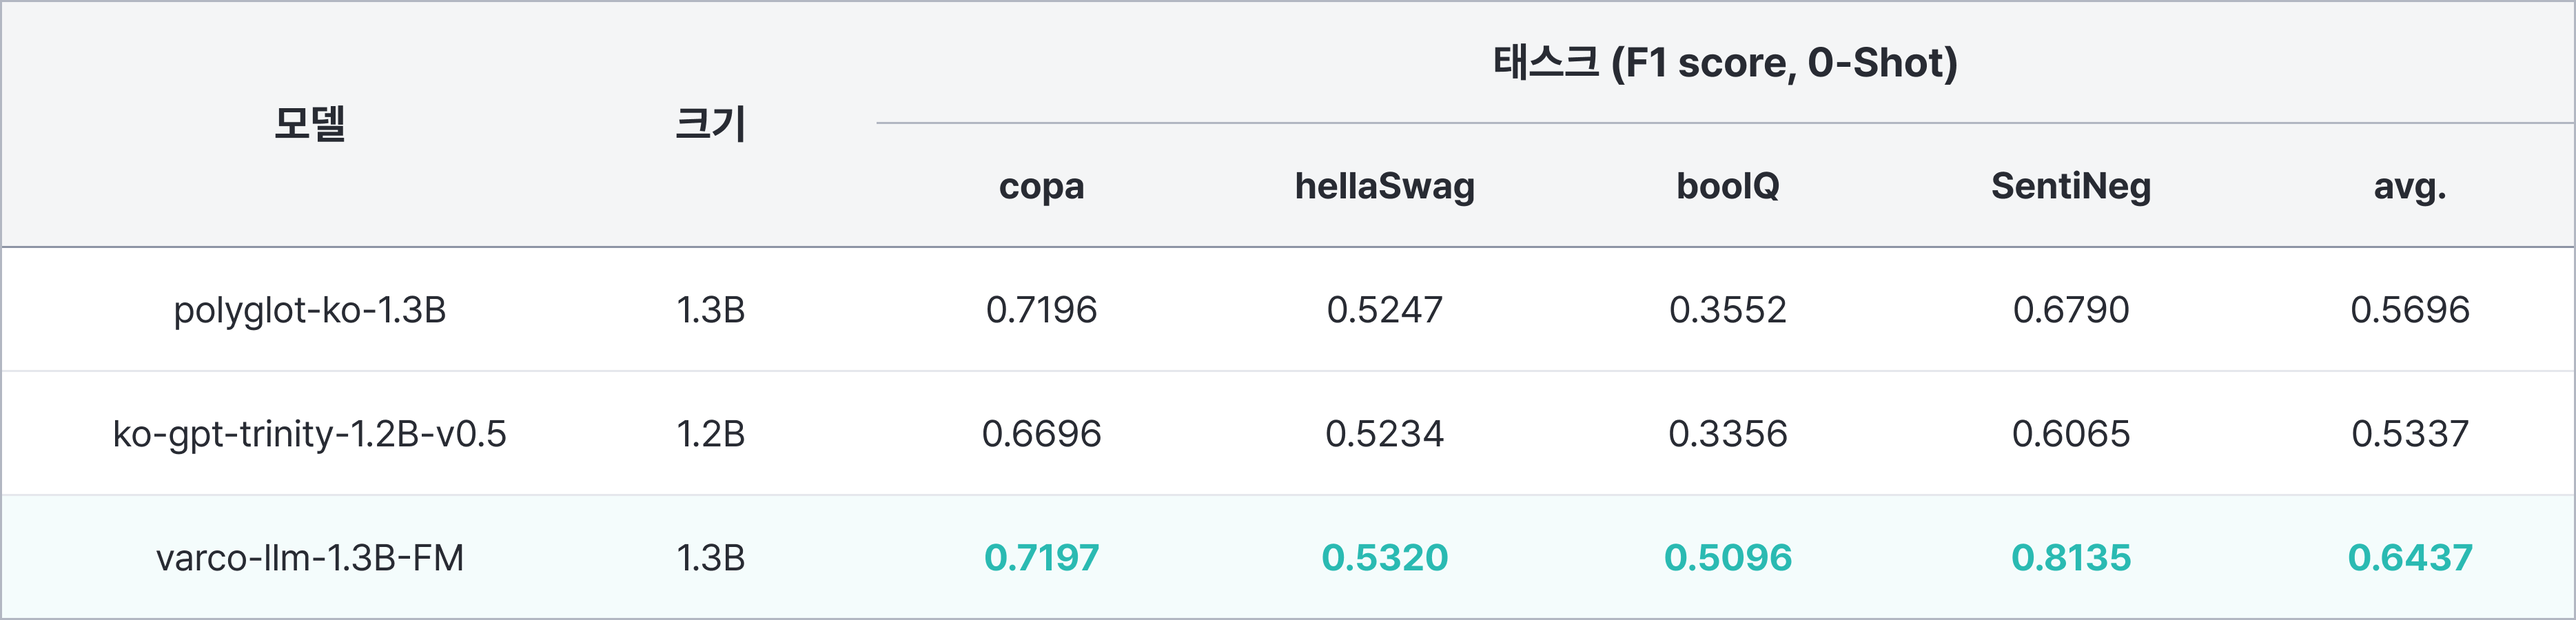
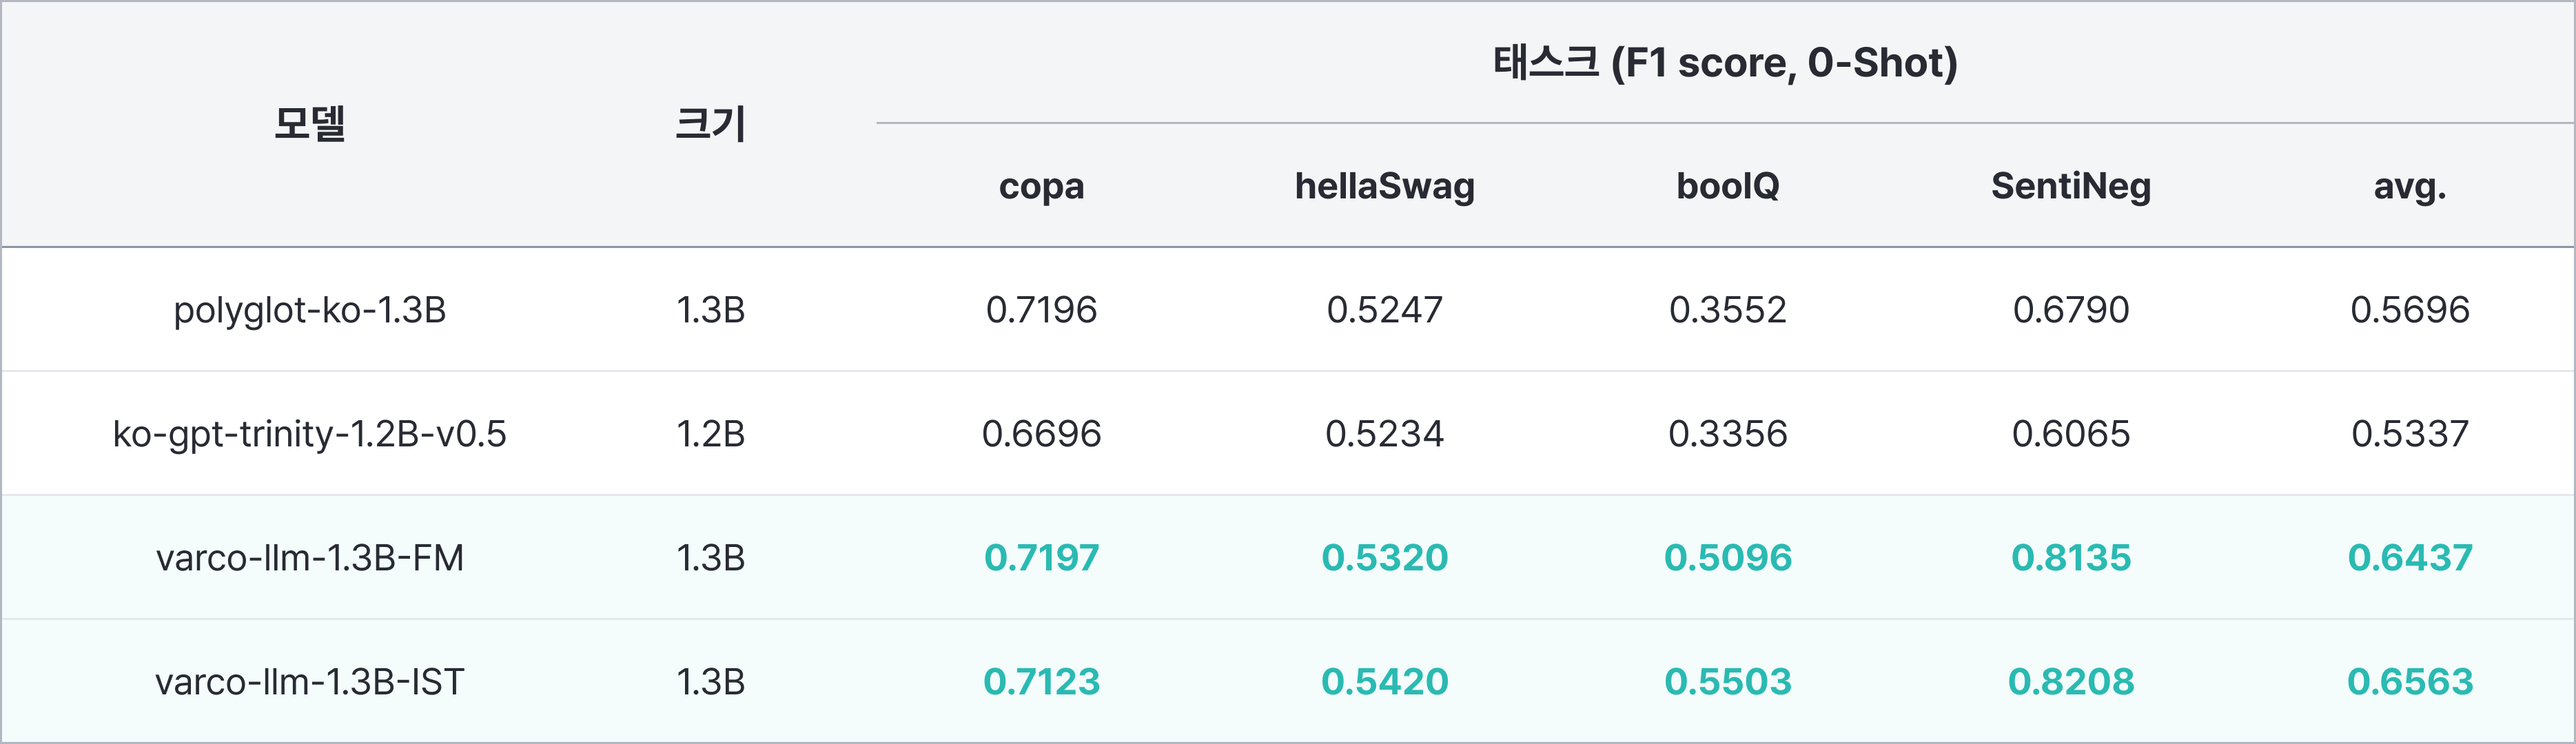
change table

diff --git a/pages/02_varco_llm.md b/pages/02_varco_llm.md
@@ -128,13 +128,13 @@ hide: true
 <h6>모델의 추가적인 성능 개선이나 튜닝, 서비스 적용을 위한 협업 문의는 메일(<a href="mailto:varco_llm@ncsoft.com">varco_llm@ncsoft.com</a>) 로 연락주십시오.</h6>
 
 |공개 일정|모델명|
-|**2023.08.10**|{::nomarkdown}<p><a href="https://ncsoft.github.io/ncresearch/varco-llm-details#varco-llm-ko-13b-fm"><b><u>VARCO LLM KO-1.3B-FM</u></b></a></p><ul><li>VARCO LLM 1.3B 모델은 작지만 7B급 언어모델에 준하는 높은 성능을 보유하고 있는 경제적인 모델입니다.</li><li>특히, 텍스트의 감성/감정 분석이나 문서 분류와 같은 태스크에서 뛰어난 성능을 보이며, 간단한 일상 대화 챗봇 개발에도 활용 가능합니다.</li></ul>{:/}|
-|**2023.08.10**|{::nomarkdown}<p><a href="https://ncsoft.github.io/ncresearch/varco-llm-details#varco-llm-ko-13b-ist"><b><u>VARCO LLM KO-1.3B-IST</u></b></a></p><ul><li>VARCO LLM 1.3B-IST 모델은 1.3B-FM 모델을 NC에서 자체 구축한 Instruction 데이터 셋으로 추가 학습한 모델입니다.</li><li>1.3B-FM 모델의 기본적인 성능에 더하여 사용자가 입력하는 프롬프트를 잘 수행하도록 학습되었기 때문에 보다 유연하게 다양한 태스크에 활용될 수 있습니다.</li><li>기존의 NLP 분석 엔진을 쉽게 대체할 수 있습니다. 빅데이터 분석 엔진 등에서 경제적으로 NLP의 어려운 문제를 해결하세요.</li></ul>{:/}|
-|**2023.08.10**|{::nomarkdown}<p><a href="https://ncsoft.github.io/ncresearch/varco-llm-details#varco-llm-ko-64b-fm"><b><u>VARCO LLM KO-6.4B-FM</u></b></a></p><ul><li>VARCO LLM 6.4B 모델은 대부분의 NLP 태스크에서 뛰어난 성능을 보이는 고성능 언어모델입니다.</li><li>Q&A, 문서 요약, 정보 추출, 챗봇 등 다양한 NLP 태스크에 적용 가능하며, 높은 성능이 요구되는 고품질 AI 서비스 개발에 적합합니다.</li></ul>{:/}|
-|**2023.08.10**|{::nomarkdown}<p><a href="https://ncsoft.github.io/ncresearch/varco-llm-details#varco-llm-ko-64b-ist"><b><u>VARCO LLM KO-6.4B-IST</u></b></a></p><ul><li>VARCO LLM 6.4B-IST 모델은 6.4B-FM 모델을 NC에서 자체 구축한 Instruction 데이터 셋으로 추가 학습한 모델입니다.</li><li>6.4B-FM 모델의 기본적인 성능에 더하여 사용자가 입력하는 프롬프트를 잘 수행하도록 학습되었기 때문에 보다 유연하게 다양한 태스크에 활용될 수 있습니다.</li><li>추론과 생성 능력에 집중하였습니다. 워크플로우의 자동화를 통해 생산성을 향상하고, One-stop 서비스형 챗봇, 개성이 묻어나는 챗봇 등을 제작하여 고객에게 새로운 경험을 제공하세요.</li></ul>{:/}|
-|**2023.08.10**|{::nomarkdown}<p><a href="https://ncsoft.github.io/ncresearch/varco-llm-details#varco-llm-ko-13b-fm-1"><b><u>VARCO LLM KO-13B-FM</u></b></a></p><ul><li>VARCO LLM 13B 모델은 현재 시점에서 NC가 제공하는 가장 강력한 성능의 언어모델입니다.</li><li>VARCO LLM 1.3B, 6.4B 모델이 잘 수행할 수 있는 모든 NLP 태스크를 더욱 뛰어난 품질로 수행 가능합니다.</li><li>13B-FM을 활용하면 수행 속도보다 품질이 더욱 중요한 AI 서비스를 합리적인 비용으로 제공할 수 있습니다.</li></ul>{:/}|
 |**2023.08.10**|{::nomarkdown}<p><a href="https://ncsoft.github.io/ncresearch/varco-llm-details#varco-llm-ko-13b-ist-1"><b><u>VARCO LLM KO-13B-IST</u></b></a></p><ul><li>VARCO LLM 13B-IST 모델은 13B-FM 모델을 NC에서 자체 구축한 Instruction 데이터 셋으로 추가 학습한 모델입니다.</li><li>13B-FM 모델의 기본적인 성능에 더하여 사용자가 입력하는 프롬프트를 잘 수행하도록 학습되었기 때문에 보다 유연하게 다양한 태스크에 활용될 수 있습니다.</li><li>추론과 생성 능력에 집중하였습니다. 워크플로우의 자동화를 통해 생산성을 향상하고, One-stop 서비스형 챗봇, 개성이 묻어나는 챗봇 등을 제작하여 고객에게 새로운 경험을 제공하세요.</li></ul>{:/}|
-|{::nomarkdown}<p class="gray_p"><b>2023.08.29</b></p>{:/}|{::nomarkdown}<p class="gray_p"><b>VARCO LLM Bi-13B-IST</b></p><p class="gray_p">한국어와 영어를 동시에 학습한 13B-FM 모델을 기반으로 사용자의 프롬프트를 잘 수행하도록 추가 학습된 모델입니다.</p>{:/}|
+|**2023.08.10**|{::nomarkdown}<p><a href="https://ncsoft.github.io/ncresearch/varco-llm-details#varco-llm-ko-13b-fm-1"><b><u>VARCO LLM KO-13B-FM</u></b></a></p><ul><li>VARCO LLM 13B 모델은 현재 시점에서 NC가 제공하는 가장 강력한 성능의 언어모델입니다.</li><li>VARCO LLM 1.3B, 6.4B 모델이 잘 수행할 수 있는 모든 NLP 태스크를 더욱 뛰어난 품질로 수행 가능합니다.</li><li>13B-FM을 활용하면 수행 속도보다 품질이 더욱 중요한 AI 서비스를 합리적인 비용으로 제공할 수 있습니다.</li></ul>{:/}|
+|**2023.08.10**|{::nomarkdown}<p><a href="https://ncsoft.github.io/ncresearch/varco-llm-details#varco-llm-ko-64b-ist"><b><u>VARCO LLM KO-6.4B-IST</u></b></a></p><ul><li>VARCO LLM 6.4B-IST 모델은 6.4B-FM 모델을 NC에서 자체 구축한 Instruction 데이터 셋으로 추가 학습한 모델입니다.</li><li>6.4B-FM 모델의 기본적인 성능에 더하여 사용자가 입력하는 프롬프트를 잘 수행하도록 학습되었기 때문에 보다 유연하게 다양한 태스크에 활용될 수 있습니다.</li><li>추론과 생성 능력에 집중하였습니다. 워크플로우의 자동화를 통해 생산성을 향상하고, One-stop 서비스형 챗봇, 개성이 묻어나는 챗봇 등을 제작하여 고객에게 새로운 경험을 제공하세요.</li></ul>{:/}|
+|**2023.08.10**|{::nomarkdown}<p><a href="https://ncsoft.github.io/ncresearch/varco-llm-details#varco-llm-ko-64b-fm"><b><u>VARCO LLM KO-6.4B-FM</u></b></a></p><ul><li>VARCO LLM 6.4B 모델은 대부분의 NLP 태스크에서 뛰어난 성능을 보이는 고성능 언어모델입니다.</li><li>Q&A, 문서 요약, 정보 추출, 챗봇 등 다양한 NLP 태스크에 적용 가능하며, 높은 성능이 요구되는 고품질 AI 서비스 개발에 적합합니다.</li></ul>{:/}|
+|**2023.08.10**|{::nomarkdown}<p><a href="https://ncsoft.github.io/ncresearch/varco-llm-details#varco-llm-ko-13b-ist"><b><u>VARCO LLM KO-1.3B-IST</u></b></a></p><ul><li>VARCO LLM 1.3B-IST 모델은 1.3B-FM 모델을 NC에서 자체 구축한 Instruction 데이터 셋으로 추가 학습한 모델입니다.</li><li>1.3B-FM 모델의 기본적인 성능에 더하여 사용자가 입력하는 프롬프트를 잘 수행하도록 학습되었기 때문에 보다 유연하게 다양한 태스크에 활용될 수 있습니다.</li><li>기존의 NLP 분석 엔진을 쉽게 대체할 수 있습니다. 빅데이터 분석 엔진 등에서 경제적으로 NLP의 어려운 문제를 해결하세요.</li></ul>{:/}|
+|**2023.08.10**|{::nomarkdown}<p><a href="https://ncsoft.github.io/ncresearch/varco-llm-details#varco-llm-ko-13b-fm"><b><u>VARCO LLM KO-1.3B-FM</u></b></a></p><ul><li>VARCO LLM 1.3B 모델은 작지만 7B급 언어모델에 준하는 높은 성능을 보유하고 있는 경제적인 모델입니다.</li><li>특히, 텍스트의 감성/감정 분석이나 문서 분류와 같은 태스크에서 뛰어난 성능을 보이며, 간단한 일상 대화 챗봇 개발에도 활용 가능합니다.</li></ul>{:/}|
+|{::nomarkdown}<p class="gray_p"><b>2023.08.29</b></p>{:/}|{::nomarkdown}<p class="gray_p"><b>VARCO LLM KO/EN-13B-IST</b></p><p class="gray_p">한국어와 영어를 동시에 학습한 13B-FM 모델을 기반으로 사용자의 프롬프트를 잘 수행하도록 추가 학습된 모델입니다.</p>{:/}|
 |{::nomarkdown}<p class="gray_p"><b>2023.09 공개 예정</b></p>{:/}|{::nomarkdown}<p class="gray_p"><b>VARCO LLM 6.4B-PERSONA</b></p><p class="gray_p">페르소나/감정/의도를 주입하여 대화 흐름을 제어할 수 있는 고품질 챗봇 서비스용 언어모델입니다.</p>{:/}|
 |{::nomarkdown}<p class="gray_p"><b>2023.09 공개 예정</b></p>{:/}|{::nomarkdown}<p class="gray_p"><b>VARCO LLM 13B-NARRATIVE</b></p><p class="gray_p">사용자와의 상호작용을 통해 다양한 형태의 내러티브나 게임 퀘스트 생성을 지원하는 모델입니다.</p>{:/}|
 |{::nomarkdown}<p class="gray_p"><b>2023.11 공개 예정</b></p>{:/}|{::nomarkdown}<p class="gray_p"><b>VARCO LLM 52B-IST</b></p><p class="gray_p">성능이 절대적으로 중요한 태스크나 중/소 규모 언어모델 학습용 데이터 생성에 활용 가능한 모델입니다.</p>{:/}|

diff --git a/pages/varco_llm_detail.md b/pages/varco_llm_detail.md
@@ -90,43 +90,15 @@ hide: true
 
 ## Model Details
 
-### VARCO LLM KO-1.3B-FM
 
-- VARCO LLM 1.3B 모델은 작지만 7B급 언어모델에 준하는 높은 성능을 보유하고 있는 경제적인 모델입니다.  
-- 특히, 텍스트의 감성/감정 분석이나 문서 분류와 같은 태스크에서 뛰어난 성능을 보이며, 간단한 일상 대화 챗봇 개발에도 활용 가능합니다.  
+### VARCO LLM KO-13B-IST
+
+- VARCO LLM 13B-IST 모델은 13B-FM 모델을 NC에서 자체 구축한 Instruction 데이터 셋으로 추가 학습한 모델입니다.  
+- 13B-FM 모델의 기본적인 성능에 더하여 사용자의 지시를 따르도록 학습되었기 때문에 보다 유연하게 다양한 태스크에 활용될 수 있습니다.  
 - 모델 성능은 [KOBEST 데이터 셋](https://huggingface.co/datasets/skt/kobest_v1){:.post_a}을 이용하여 4개의 벤치마크 테스트를 진행하였습니다.  
 - VARCO LLM은 기존 공개된 비슷한 파라미터의 모델과 비교하여 가장 우수한 성능을 달성하였습니다.
 
-![]({{"/assets/img/renewal/model_details1.png"| relative_url}})
-{:.post_img}
-
-### VARCO LLM KO-1.3B-IST
-
-- VARCO LLM 1.3B-IST 모델은 1.3B-FM 모델을 NC에서 자체 구축한 Instruction 데이터 셋으로 추가 학습한 모델입니다.  
-- 1.3B-FM 모델의 기본적인 성능에 더하여 사용자의 지시를 따르도록 학습되었기 때문에 보다 유연하게 다양한 태스크에 활용될 수 있습니다.  
-- 모델 성능은 [KOBEST 데이터 셋](https://huggingface.co/datasets/skt/kobest_v1){:.post_a}을 이용하여 4개의 벤치마크 테스트를 진행하였습니다.
-
-![]({{"/assets/img/renewal/model_details2.png"| relative_url}})
-{:.post_img}
-
-### VARCO LLM KO-6.4B-FM
-
-- VARCO LLM 6.4B 모델은 대부분의 NLP 태스크에서 뛰어난 성능을 보이는 고성능 언어모델입니다.  
-- Q&A, 문서 요약, 정보 추출, 챗봇 등 다양한 NLP 태스크에 적용 가능하며, 높은 성능이 요구되는 고품질 AI 서비스 개발에 적합합니다.  
-- 모델 성능은 [KOBEST 데이터 셋](https://huggingface.co/datasets/skt/kobest_v1){:.post_a}을 이용하여 4개의 벤치마크 테스트를 진행하였습니다.  
-- VARCO LLM은 기존 공개된 비슷한 파라미터의 모델과 비교하여 가장 우수한 성능을 달성하였습니다.
-
-![]({{"/assets/img/renewal/model_details3.png"| relative_url}})
-{:.post_img}
-
-### VARCO LLM KO-6.4B-IST
-
-- VARCO LLM 6.4B-IST 모델은 6.4B-FM 모델을 NC에서 자체 구축한 Instruction 데이터 셋으로 추가 학습한 모델입니다.  
-- 6.4B-FM 모델의 기본적인 성능에 더하여 사용자의 지시를 따르도록 학습되었기 때문에 보다 유연하게 다양한 태스크에 활용될 수 있습니다.  
-- 모델 성능은 [KOBEST 데이터 셋](https://huggingface.co/datasets/skt/kobest_v1){:.post_a}을 이용하여 4개의 벤치마크 테스트를 진행하였습니다.  
-- VARCO LLM은 기존 공개된 비슷한 파라미터의 모델과 비교하여 가장 우수한 성능을 달성하였습니다.
-
-![]({{"/assets/img/renewal/model_details4.png"| relative_url}})
+![]({{"/assets/img/renewal/model_details6.png"| relative_url}})
 {:.post_img}
 
 ### VARCO LLM KO-13B-FM
@@ -140,12 +112,35 @@ hide: true
 ![]({{"/assets/img/renewal/model_details5.png"| relative_url}})
 {:.post_img}
 
-### VARCO LLM KO-13B-IST
+### VARCO LLM KO-6.4B-IST
 
-- VARCO LLM 13B-IST 모델은 13B-FM 모델을 NC에서 자체 구축한 Instruction 데이터 셋으로 추가 학습한 모델입니다.  
-- 13B-FM 모델의 기본적인 성능에 더하여 사용자의 지시를 따르도록 학습되었기 때문에 보다 유연하게 다양한 태스크에 활용될 수 있습니다.  
+- VARCO LLM 6.4B-IST 모델은 6.4B-FM 모델을 NC에서 자체 구축한 Instruction 데이터 셋으로 추가 학습한 모델입니다.  
+- 6.4B-FM 모델의 기본적인 성능에 더하여 사용자의 지시를 따르도록 학습되었기 때문에 보다 유연하게 다양한 태스크에 활용될 수 있습니다.  
 - 모델 성능은 [KOBEST 데이터 셋](https://huggingface.co/datasets/skt/kobest_v1){:.post_a}을 이용하여 4개의 벤치마크 테스트를 진행하였습니다.  
 - VARCO LLM은 기존 공개된 비슷한 파라미터의 모델과 비교하여 가장 우수한 성능을 달성하였습니다.
 
-![]({{"/assets/img/renewal/model_details6.png"| relative_url}})
+![]({{"/assets/img/renewal/model_details4.png"| relative_url}})
 {:.post_img}
+
+### VARCO LLM KO-6.4B-FM
+
+- VARCO LLM 6.4B 모델은 대부분의 NLP 태스크에서 뛰어난 성능을 보이는 고성능 언어모델입니다.  
+- Q&A, 문서 요약, 정보 추출, 챗봇 등 다양한 NLP 태스크에 적용 가능하며, 높은 성능이 요구되는 고품질 AI 서비스 개발에 적합합니다.  
+- 모델 성능은 [KOBEST 데이터 셋](https://huggingface.co/datasets/skt/kobest_v1){:.post_a}을 이용하여 4개의 벤치마크 테스트를 진행하였습니다.  
+- VARCO LLM은 기존 공개된 비슷한 파라미터의 모델과 비교하여 가장 우수한 성능을 달성하였습니다.
+
+![]({{"/assets/img/renewal/model_details3.png"| relative_url}})
+{:.post_img}
+
+### VARCO LLM KO-1.3B-FM / IST
+
+- VARCO LLM 1.3B 모델은 작지만 7B급 언어모델에 준하는 높은 성능을 보유하고 있는 경제적인 모델입니다.
+- 특히, 텍스트의 감성/감정 분석이나 문서 분류와 같은 태스크에서 뛰어난 성능을 보이며, 간단한 일상 대화 챗봇 개발에도 활용 가능합니다.
+- 모델 성능은 [KOBEST 데이터 셋](https://huggingface.co/datasets/skt/kobest_v1){:.post_a}을 이용하여 4개의 벤치마크 테스트를 진행하였습니다. 
+- VARCO LLM 1.3B IST 모델은 1.3B FM 모델을 NC에서 자체 구축한 Instruction 데이터 셋으로 추가 학습한 모델입니다.
+- 1.3B FM 모델의 기본적인 성능에 더하여 사용자의 지시를 따르도록 학습되었기 때문에 보다 유연하게 다양한 태스크에 활용될 수 있습니다.
+- VARCO LLM은 기존 공개된 비슷한 크기의 모델과 비교하여 가장 우수한 성능을 달성하였습니다.
+
+![]({{"/assets/img/renewal/model_details1.png"| relative_url}})
+{:.post_img}
+
